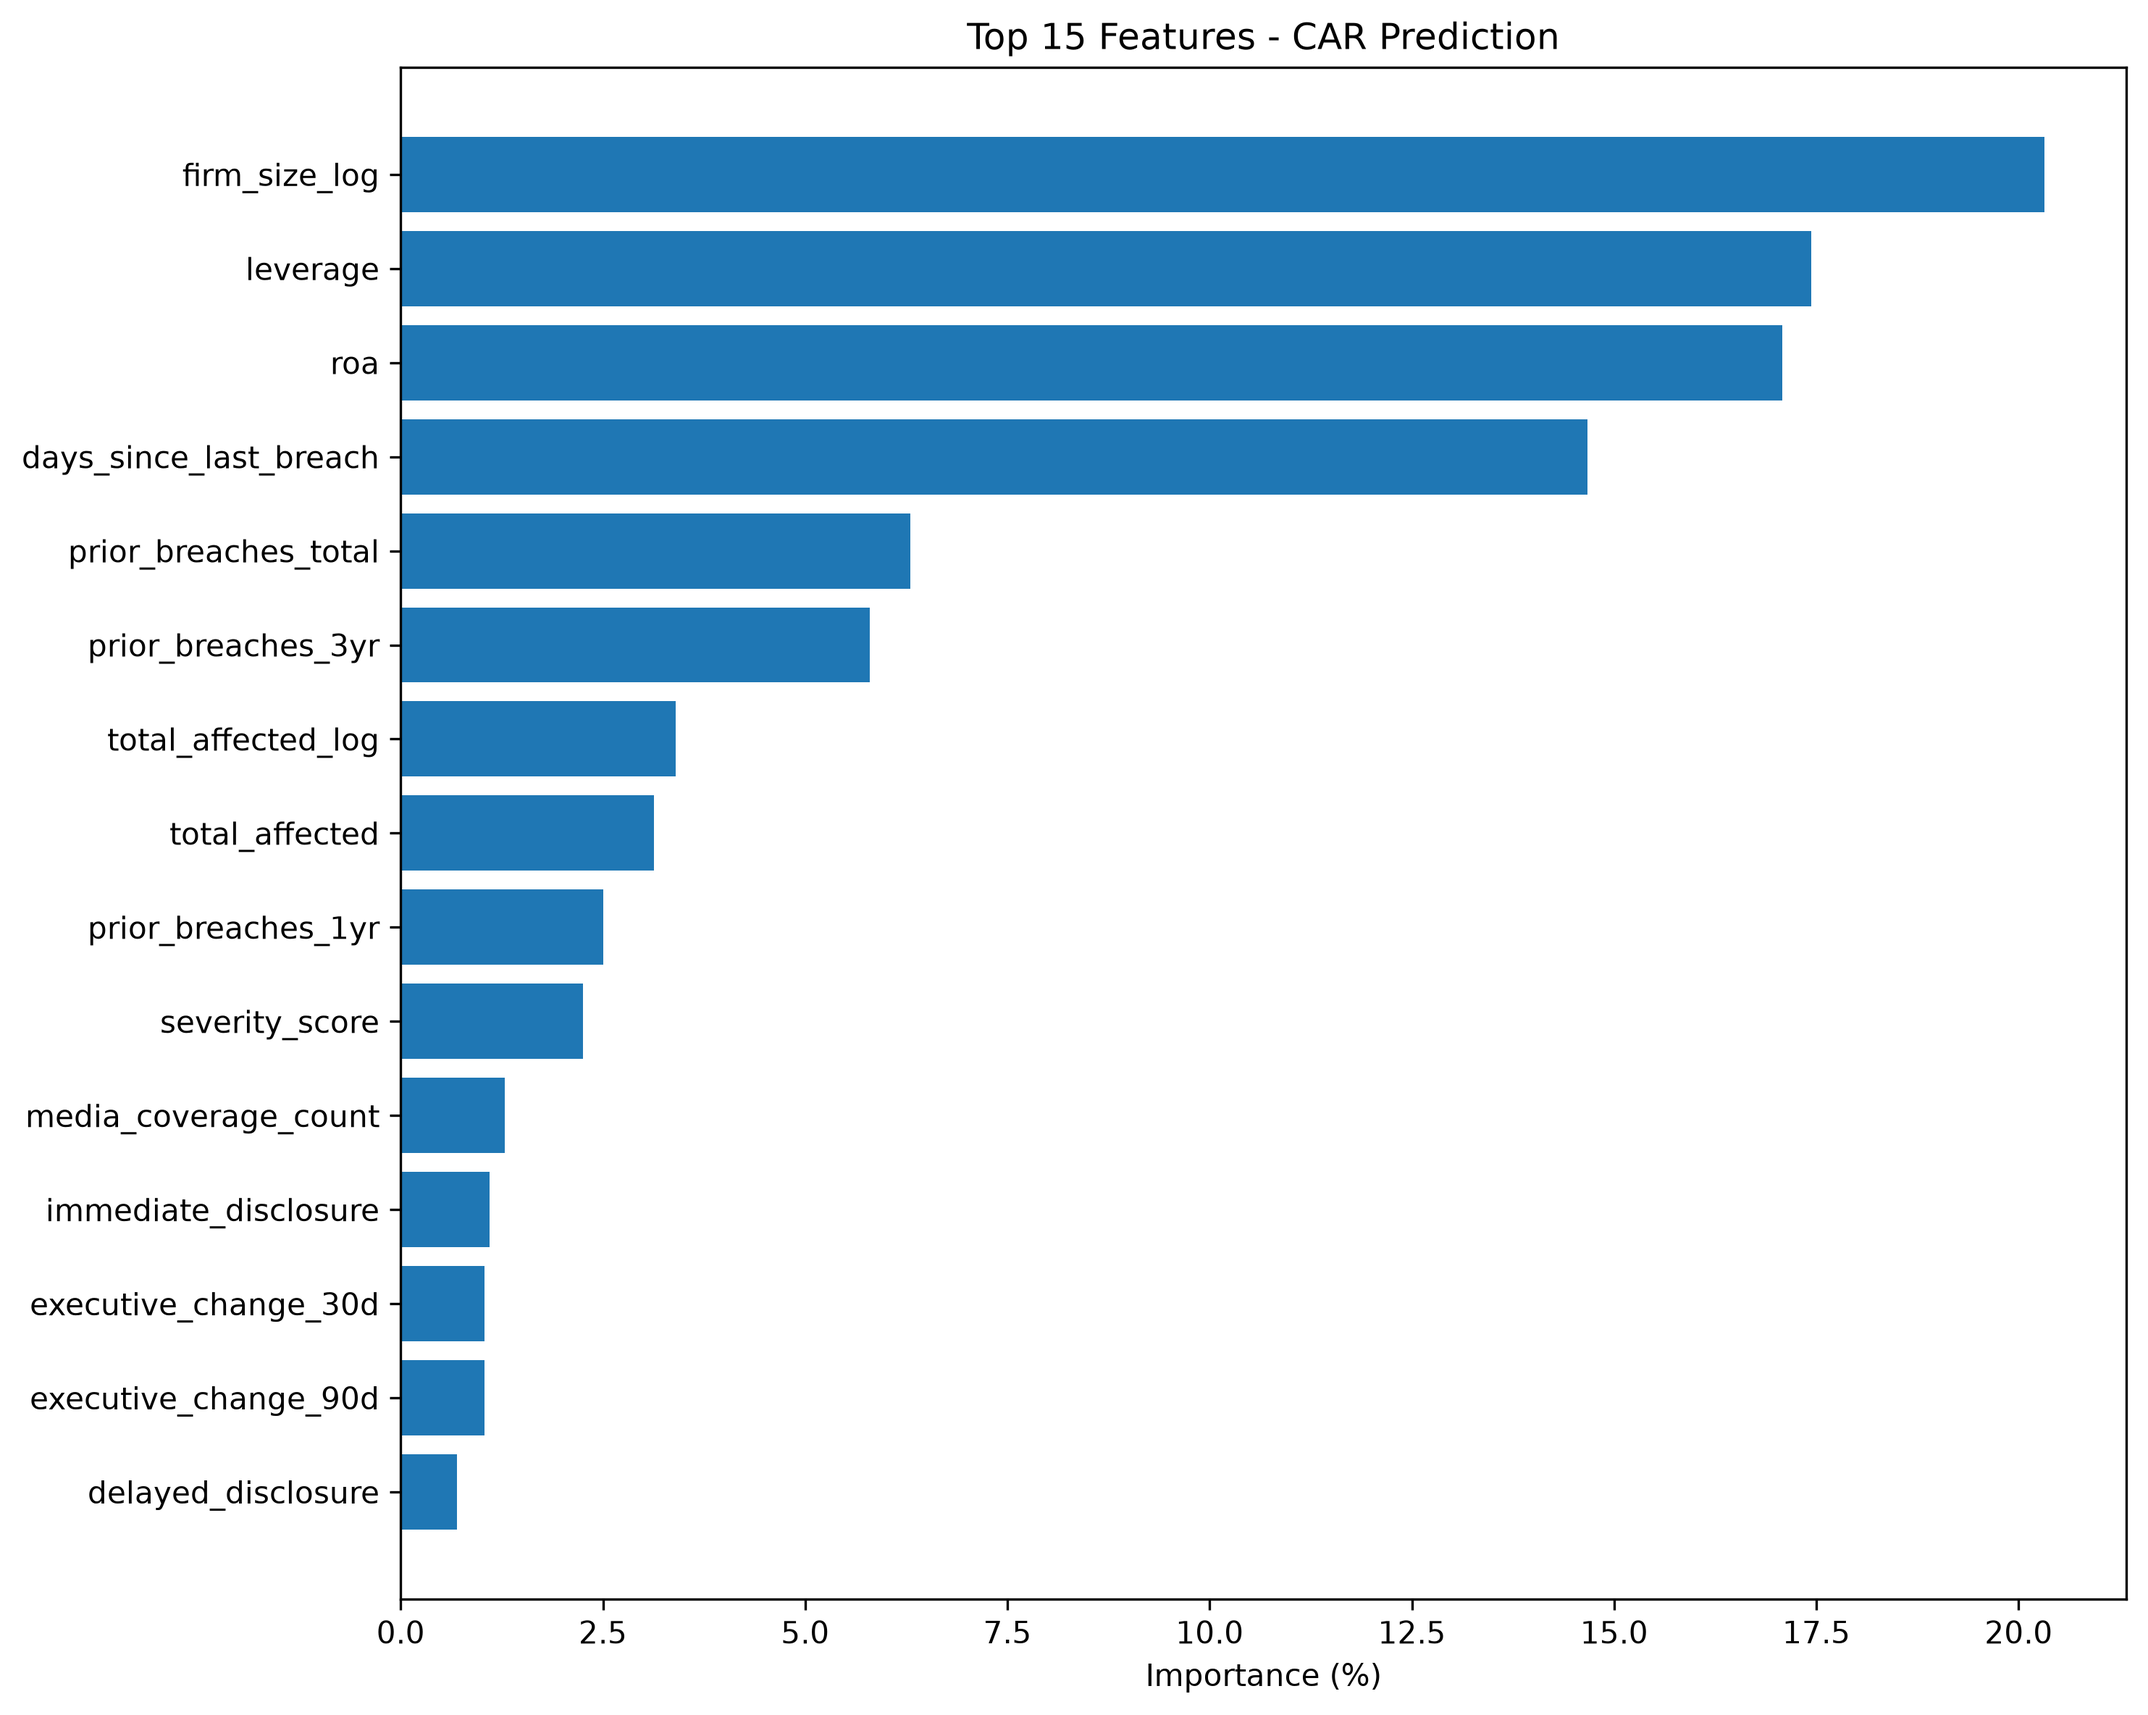
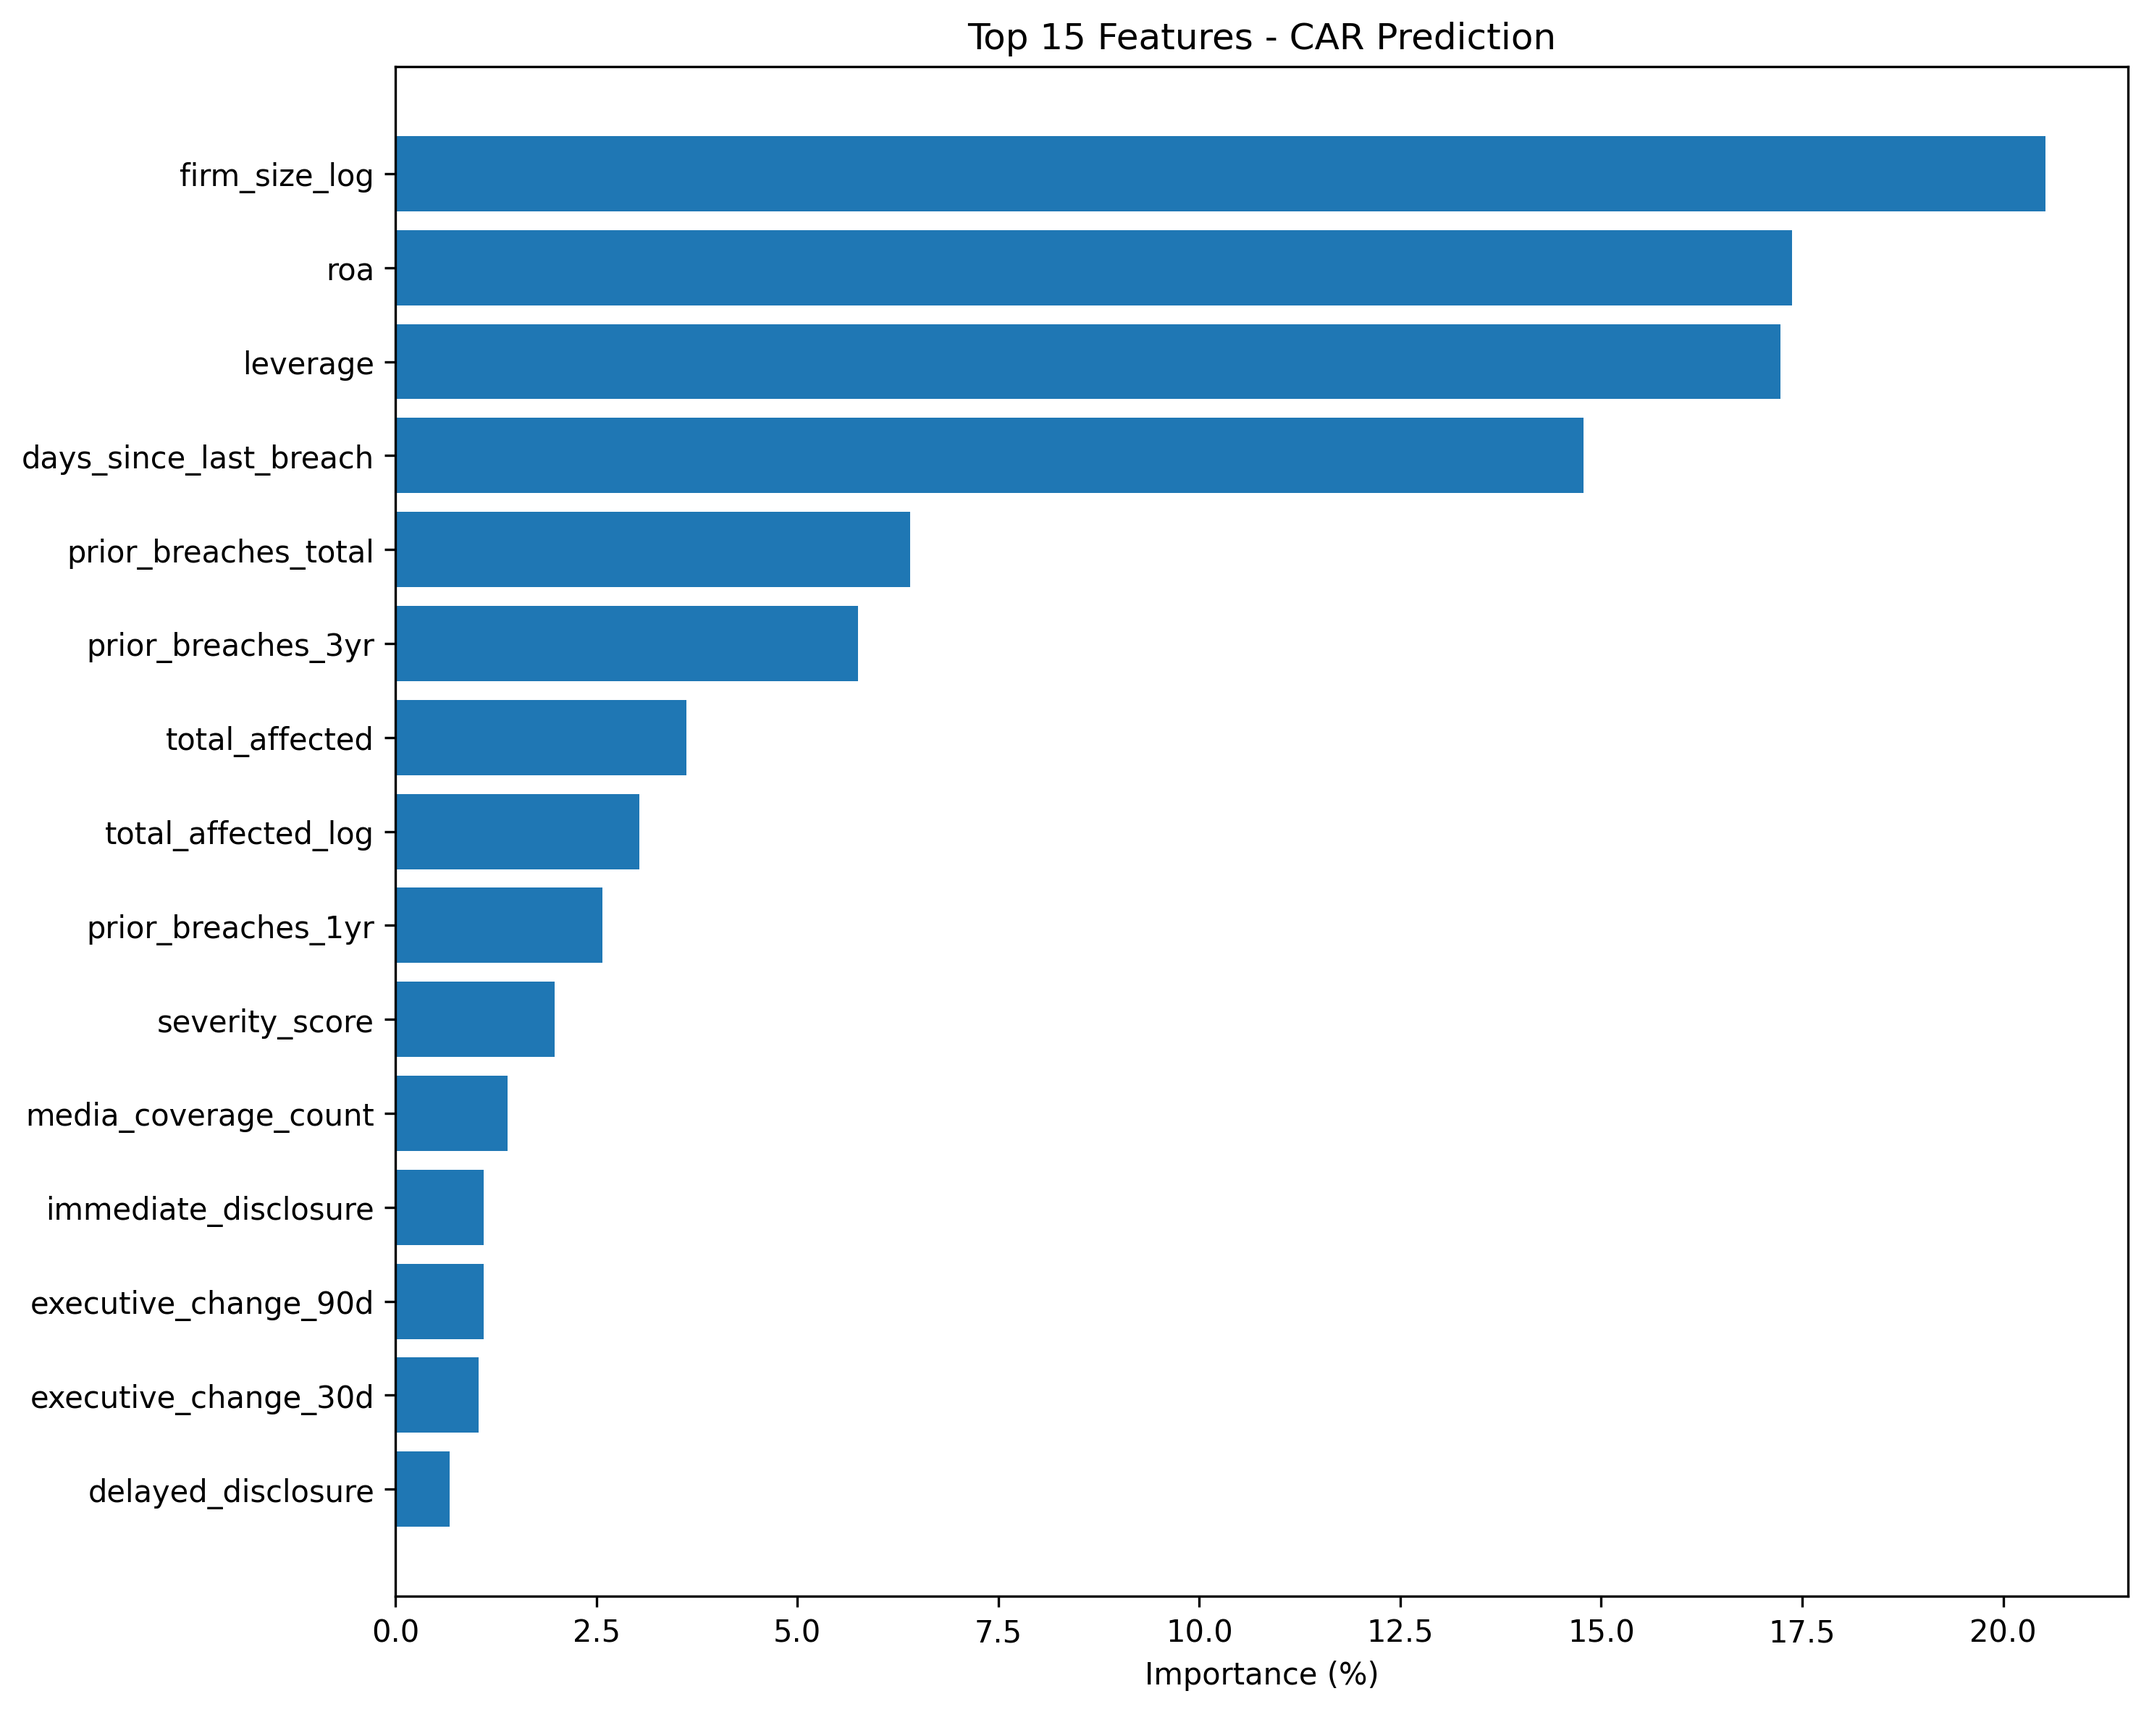
Drop the synthetic enforcement features from the random-forest feature set
scripts/60_train_ml_model.py: remove the 'regulatory' feature group
(has_enforcement, enforcement_within_365d, enforcement_within_1yr,
enforcement_within_2yr). All four are fabricated by the seeded random.random() draw
in scripts/47_regulatory_enforcement.py. Unlike the Table 1 row, these were live
model inputs: enforcement_within_2yr held 0.368% of Model 1 importance and
enforcement_within_1yr 0.247%.

Model 1 (CAR 30-day) 28 -> 24 features; Model 2 (volatility) 29 -> 25. Remaining
importances redistribute, so these two files are not comparable line-for-line with
earlier copies: for Model 1, 20 of 24 surviving features moved (largest
total_affected +0.497pp, total_affected_log -0.353pp, severity_score -0.321pp); for
Model 2, 16 of 25 moved (total_affected_log +0.388pp, total_affected -0.388pp).
Metrics shift slightly: CAR test R2 -0.009476 -> -0.008992, RMSE 8.751867 ->
8.749769; volatility test R2 0.072533 -> 0.073724, RMSE 12.868114 -> 12.859846.
Figures regenerated so they do not contradict their own CSVs.

Recorded separately, not fixed here: the committed feature-importance files did not
reproduce from current input even before this edit (19 of 28 and 15 of 29
importances differed), so they were already out of step with the dataset they read.
The script itself is deterministic - the split is temporal, not random, and both
forests set random_state=42; train_test_split is imported but never called.

run_all and script 158 were not run; script 60 was run individually.
[…]

diff --git a/scripts/60_train_ml_model.py b/scripts/60_train_ml_model.py
@@ -95,10 +95,14 @@ feature_groups = {
         'sox_404_effective', 'material_weakness',
         'executive_change_30d', 'executive_change_90d', 'executive_change_180d'
     ],
-    'regulatory': [
-        'has_enforcement', 'enforcement_within_365d',
-        'enforcement_within_1yr', 'enforcement_within_2yr'
-    ]
+    # REMOVED 2026-09-15: the 'regulatory' feature group, which was
+    #   ['has_enforcement', 'enforcement_within_365d',
+    #    'enforcement_within_1yr', 'enforcement_within_2yr']
+    # All four are synthetic - fabricated by a seeded random.random() draw in
+    # scripts/47_regulatory_enforcement.py, gated on breach size. They were live
+    # model inputs here: enforcement_within_2yr carried non-zero importance
+    # (0.00286) in the committed feature_importance_car30d.csv.
+    # See Data/enrichment/README.md. Do not reinstate.
 }
 
 # Collect all available features
